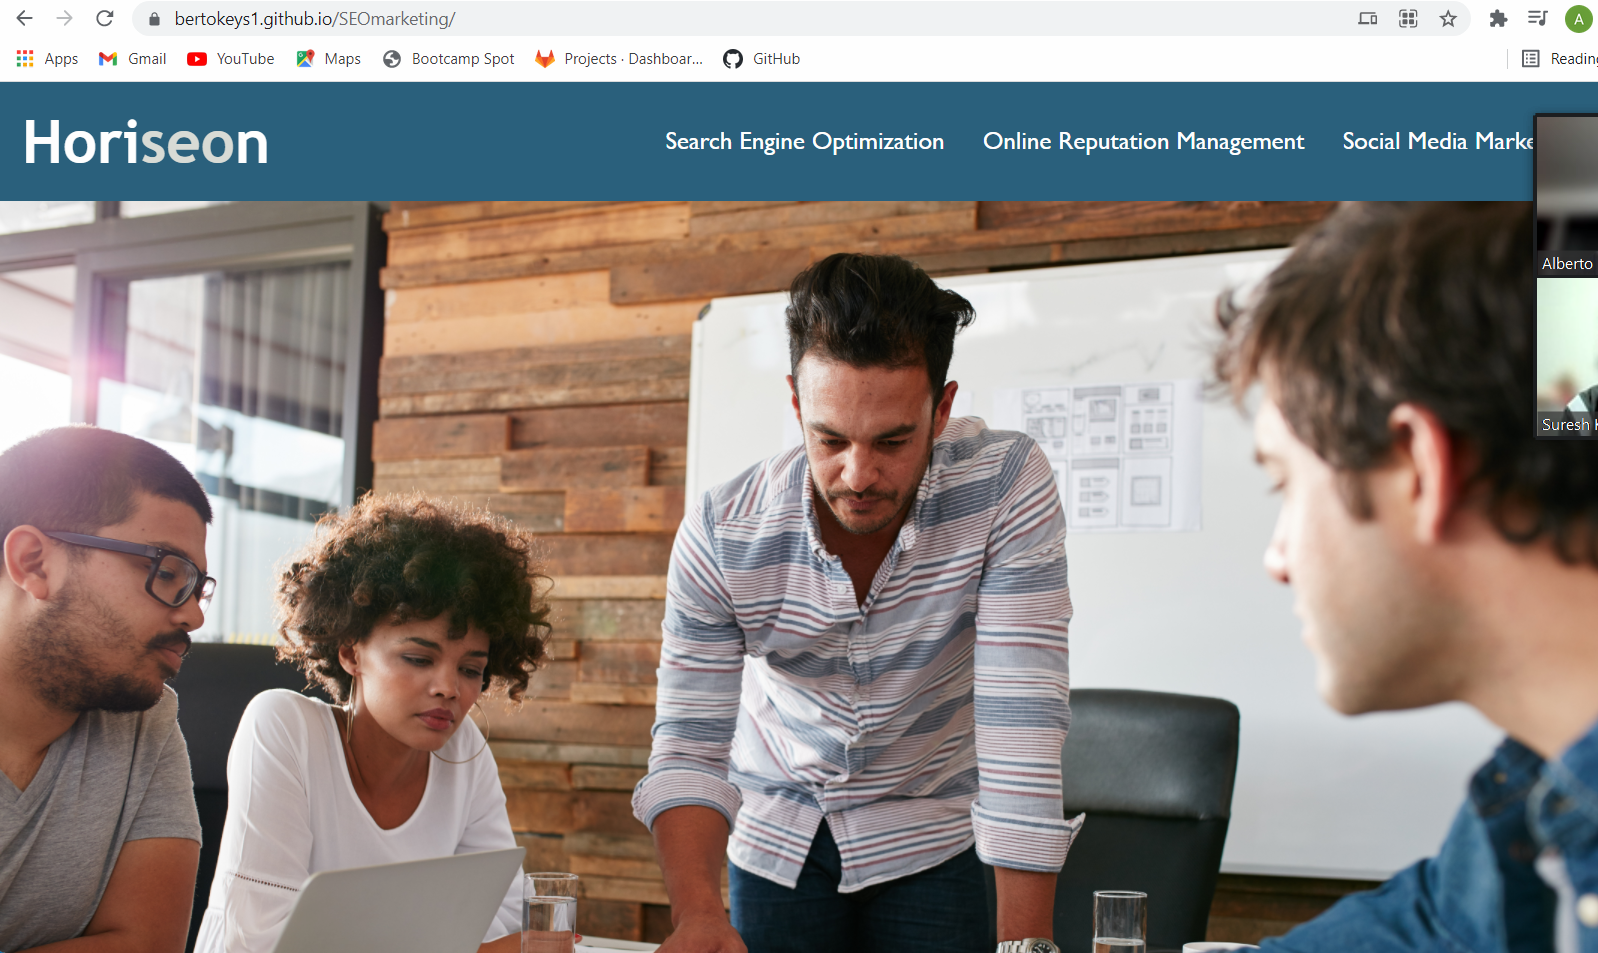
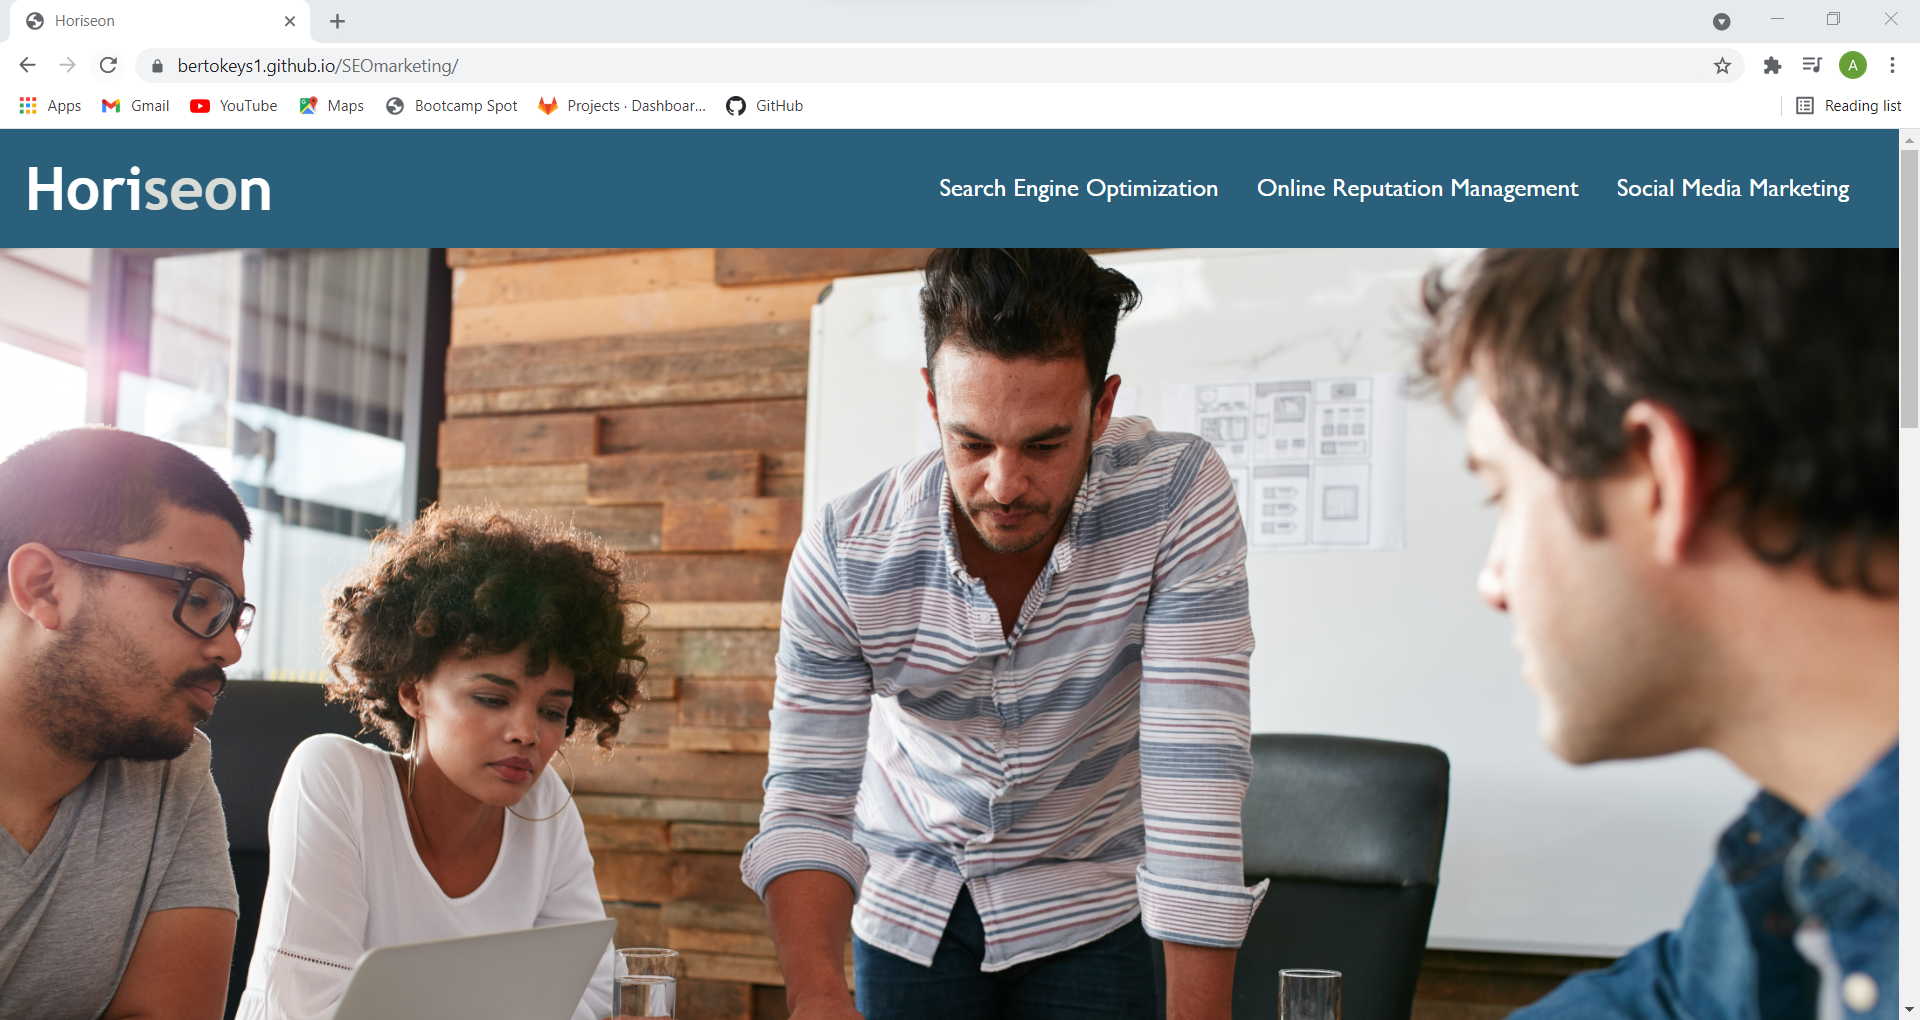
updated css styles

diff --git a/index.html b/index.html
@@ -11,8 +11,8 @@
         <h1>Alberto Barrientos</h1>
       <nav>
         <a href="#AboutMe">About Me</a>
-        <a href="#">Work</a>
-        <a href="#">Contact Me</a>
+        <a href="#work">Work</a>
+        <a href="#contacts">Contact Me</a>
       </nav>
     </header>
 
@@ -25,35 +25,32 @@
         I am currently enrolled in the UW full stack web developement course. I plan on working on front end developement and ultimately pursuing software developement. I love learning new skills and creating things people would like and use. In my free time I enjoy walking my dog, playing guitar, and video games.
         </p>
       </aside>
+      <!-- <div>Work</div> -->
       <div class="projects">
         <section class="container">
-          <header>SEOMarketing</header>
+          <header id="work">SEOmarketing</header>
           <a target=_blank href="https://bertokeys1.github.io/SEOmarketing/"><img src="./assets/images/SEOMarketing.png" alt="project 1" /></a>
           <a target=_blank href="https://github.com/Bertokeys1/SEOmarketing">github repo</p>
         </section>
         <section class="container">
-          <header>Project 2</header>
+          <header>Portfolio</header>
          <a href="https://bertokeys1.github.io/SEOmarketing/"> <img src="./assets/images/portfolio.png" alt="project 2 image" /></a> 
-          <p>github code</p>
+          <a target=_blank href="https://github.com/Bertokeys1/HW2Portfolio">github repo</p>
         </section>
-        <section class="container">
+        <!-- <section class="contacts">
           <header>Project 3</header>
-          <img
-            src="./assets/images/Coming-soon.jpg"
-            alt="project 3 image"
-          />
+        </section> -->
+        <br>
+        <section class="contacts">
+          <header id="contacts">Contact Me</Header>
+            <ul>
+              <li><a target=_blank href="https://www.linkedin.com/in/alberto-barrientos-90852183/">Linkedin</li>
+              <li><a target=_blank href="https://github.com/Bertokeys1">Github</li>
+          </ul>
         </section>
-        <section class="container">
-          <header>Project 4</header>
-          <img
-            src="./assets/images/Coming-soon.jpg"
-            alt="project 4 image"
-          />
         </section>
       </div>
     </main>
-
-    <!-- Footer -->
     <footer>
     </footer>
   </body>

diff --git a/assets/stylesheet.css b/assets/stylesheet.css
@@ -50,8 +50,8 @@
   }
 
   .hero {
-    height:400px;
-    background-image: url(https://wallpapermemory.com/uploads/806/nasa-background-hd-1920x1080-470936.jpg);
+    height:300px;
+    background-image: url(https://images.unsplash.com/photo-1537884631310-061c11097503?ixlib=rb-1.2.1&ixid=MnwxMjA3fDB8MHxwaG90by1yZWxhdGVkfDJ8fHxlbnwwfHx8fA%3D%3D&w=1000&q=80);
     background-size: cover;
     background-repeat: no-repeat;
     background-position: center;
@@ -61,22 +61,11 @@
     align-items: flex-end;
     padding: 0px 20px 20px 0;
 }
-  
-  
   .projects {
     flex: 4;
-    background-color: rgb(89, 125, 141);
+    background-color: #597d8d;
     padding: 20px;
-    display: flex;
-    flex-wrap: wrap;
-    justify-content: center;
-  }
-  
-  .projects2 {
-    flex: 4;
-    background-color: #fff;
-    padding: 20px;
-    display: flex;
+    display: inline-flex;
     flex-wrap: wrap;
     justify-content: center;
   }
@@ -100,6 +89,13 @@
   
   .container img {
     width: 100%;
+  }
+  .contacts {
+    border-width: 1px;
+    border-radius: 10px;
+    padding: 10px;
+    flex: 0 0 400px;
+    text-align: center;
   }
   
   @media screen and (max-width: 768px) {
